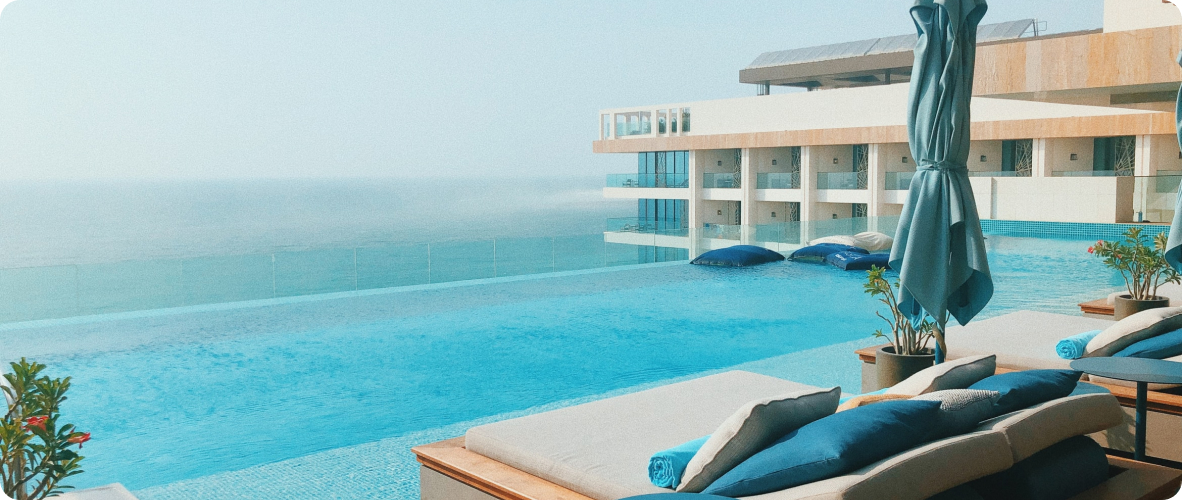
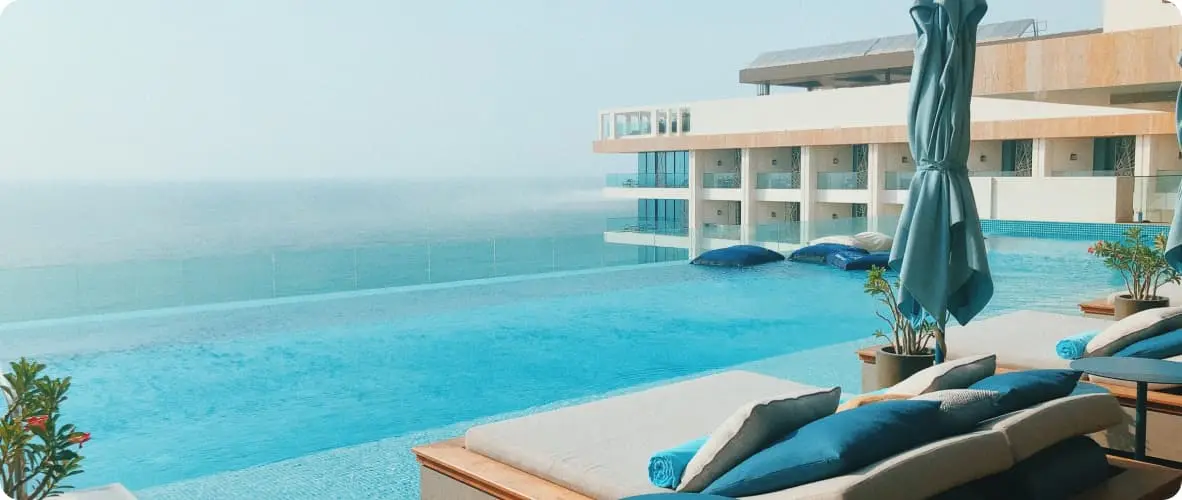
verification

diff --git a/src/Choose/Choose.tsx b/src/Choose/Choose.tsx
@@ -21,7 +21,7 @@ const Choose: React.FC = () => {
 
                 <div className={styles.divPidContainer}>
                     <div className={styles.divMiniContainer}>
-                        <img src="../image/Choose1.png" alt="delete" loading="lazy" />
+                        <img src="../image/Choose1.webp" alt="delete" loading="lazy" />
                         <h3>{t('Choose.Container_1.title_Photo_1')}</h3>
                         <p>{t('Choose.Container_1.subtitle_1_Photo_1')}<br />
                             {t('Choose.Container_1.subtitle_1_Photo_2')} <br />
@@ -29,7 +29,7 @@ const Choose: React.FC = () => {
                     </div>
 
                     <div className={styles.divMiniContainer}>
-                        <img src="../image/Choose2.png" alt="delete" loading="lazy"/>
+                        <img src="../image/Choose2.webp" alt="delete" loading="lazy"/>
                         <h3>{t('Choose.Container_2.title_Photo_2')}</h3>
                         <p>{t('Choose.Container_2.subtitle_2_Photo_1')}<br />
                             {t('Choose.Container_2.subtitle_2_Photo_2')} <br />
@@ -37,7 +37,7 @@ const Choose: React.FC = () => {
                     </div>
 
                     <div className={styles.divMiniContainer}>
-                        <img src="../image/Choose3.png" alt="delete" loading="lazy"/>
+                        <img src="../image/Choose3.webp" alt="delete" loading="lazy"/>
                         <h3>{t('Choose.Container_3.title_Photo_3')}</h3>
                         <p>{t('Choose.Container_3.subtitle_3_Photo_1')}<br />
                             {t('Choose.Container_3.subtitle_3_Photo_2')} <br />
@@ -45,7 +45,7 @@ const Choose: React.FC = () => {
                     </div>
 
                     <div className={styles.divMiniContainer}>
-                        <img src="../image/Choose4.png" alt="delete" loading="lazy"/>
+                        <img src="../image/Choose4.webp" alt="delete" loading="lazy"/>
                         <h3>{t('Choose.Container_4.title_Photo_4')}</h3>
                         <p>{t('Choose.Container_4.subtitle_4_Photo_1')}<br />
                             {t('Choose.Container_4.subtitle_4_Photo_2')} <br />

diff --git a/src/SectionHotel/SectionHotel.tsx b/src/SectionHotel/SectionHotel.tsx
@@ -19,7 +19,7 @@ const SectionHotel: React.FC = () => {
                     <div className={styles.imgBlock}>
                         <img className={styles.imgSerze} src="../image/iconSerze.png" alt="delete" loading="lazy" />
                         <img className={styles.zirca} src="../image/ivonZirca.png" alt="delete" loading="lazy" />
-                        <img className={styles.hotelImg} src="../image/hotel1.png" alt="delete" loading="lazy" />
+                        <img className={styles.hotelImg} src="../image/hotel1.webp" alt="delete" loading="lazy" />
                     </div>
 
                     <div className={styles.divtext}>
@@ -51,7 +51,7 @@ const SectionHotel: React.FC = () => {
                     <div className={styles.imgBlock}>
                         <img className={styles.imgSerze} src="../image/iconSerze.png" alt="delete" loading="lazy" />
                         <img className={styles.zirca} src="../image/ivonZirca.png" alt="delete" loading="lazy" />
-                        <img className={styles.hotelImg} src="../image/hotel2.png" alt="delete" loading="lazy" />
+                        <img className={styles.hotelImg} src="../image/hotel2.webp" alt="delete" loading="lazy" />
                     </div>
 
                     <div className={styles.divtext}>
@@ -82,7 +82,7 @@ const SectionHotel: React.FC = () => {
                     <div className={styles.imgBlock}>
                         <img className={styles.imgSerze} src="../image/iconSerze.png" alt="delete" loading="lazy" />
                         <img className={styles.zirca} src="../image/ivonZirca.png" alt="delete" loading="lazy" />
-                        <img className={styles.hotelImg} src="../image/hotel3.png" alt="delete" loading="lazy" />
+                        <img className={styles.hotelImg} src="../image/hotel3.webp" alt="delete" loading="lazy" />
                     </div>
 
                     <div className={styles.divtext}>

diff --git a/src/Recent/Recent.tsx b/src/Recent/Recent.tsx
@@ -18,7 +18,7 @@ const Recent: React.FC = () => {
             <div className="DivCintainerRecent">
 
                 <div className="DivMinContainer">
-                    <img src="../image/1.png" alt="delete" loading="lazy"/>
+                    <img src="../image/1.webp" alt="delete" loading="lazy"/>
                     <h2>
                         {t("Recent.Container_1.textData_1")}<span><MdAccessTimeFilled className="TimeField1" />{t("Recent.Container_1.textData_2")}</span>
                     </h2>
@@ -31,7 +31,7 @@ const Recent: React.FC = () => {
                 </div>
 
                 <div className="DivMinContainer">
-                    <img src="../image/2.png" alt="delete" loading="lazy" />
+                    <img src="../image/2.webp" alt="delete" loading="lazy" />
                     <h2>
                         {t("Recent.Container_2.textData_1")}<span> <MdAccessTimeFilled className="TimeField2" />{t("Recent.Container_2.textData_2")}</span>
                     </h2>
@@ -43,7 +43,7 @@ const Recent: React.FC = () => {
                 </div>
 
                 <div className="DivMinContainer">
-                    <img src="../image/3.png" alt="delete" loading="lazy" />
+                    <img src="../image/3.webp" alt="delete" loading="lazy" />
                     <h2>
                         {t("Recent.Container_3.textData_1")}<span><MdAccessTimeFilled className="TimeField3" /> {t("Recent.Container_3.textData_2")}</span>
                     </h2>

diff --git a/src/Banner/Banner.tsx b/src/Banner/Banner.tsx
@@ -20,8 +20,8 @@ const Banner = () => {
                 </div>
 
                 <div className={styles.divBanerPhoto}>
-                    <img src="../image/Banner.jpg" className={styles.banerPhoto} alt="delete"  decoding="async" loading="eager" style={{maxWidth: "1180px", width:"100%", height: "auto%" }}/>
-                    <img src="../image/Rectangle.jpg" className={styles.ImgZamina} alt="delete" decoding="async" loading="lazy"/>
+                    <img src="../image/Banner.webp" className={styles.banerPhoto} alt="delete"  decoding="async" loading="eager" style={{maxWidth: "1180px", width:"100%", height: "auto%" }}/>
+                    <img src="../image/Rectangle.webp" className={styles.ImgZamina} alt="delete" decoding="async" loading="lazy"/>
                 </div>
 
                 <div className={styles.divPitBaner}>
@@ -34,7 +34,7 @@ const Banner = () => {
                     <div className={styles.divPoloska}><span ></span></div>
 
                     <div className={styles.divWhen}>
-                        <img src="../image/calendar.png" alt="delete" loading="lazy" />
+                        <img src="../image/calendar.webp" alt="delete" loading="lazy" />
                         <p>{t('Banner.search.p_2')}<br /><span>{t('Banner.search.span_2')}</span></p>
                     </div>
 

diff --git a/src/Footer/Footer.css b/src/Footer/Footer.css
@@ -6,7 +6,8 @@
     margin: 0 auto;
     background-color: #bebdbd54;
 }
-.DivMinContaier{
+
+.DivMinContaier {
     margin-right: 20px;
 }
 
@@ -80,6 +81,7 @@
 .PoloskaBootom img {
     max-width: 1186px;
     width: 100%;
+    height: 1px;
     padding-right: 9px;
     margin: 0 auto;
 }
@@ -102,7 +104,8 @@
     font-family: sans-serif;
     color: #2A90D9;
 }
-.FooterMin p{
+
+.FooterMin p {
     font-family: sans-serif;
 }
 
@@ -122,6 +125,11 @@
     height: 30px;
     height: 100%;
 
+}
+
+.minDivFooter img {
+    width: 32px;
+    height: 32px;
 }
 
 .minDivFooter svg {
@@ -159,19 +167,19 @@
     }
 }
 
-@media(max-width: 520px){
-    .FooterMin{
+@media(max-width: 520px) {
+    .FooterMin {
         flex-wrap: wrap;
         width: 70%;
         padding-left: 20px;
     }
 
-    .FooterMin h1{
+    .FooterMin h1 {
         padding-left: 0px;
         padding-right: 10px;
     }
 
-    
+
 }
 
 @media(max-width: 390px) {
@@ -180,12 +188,12 @@
         width: 100%;
     }
 
-    .DivMinContaier h3{
+    .DivMinContaier h3 {
         font-size: 11px;
         padding-bottom: 0px;
     }
 
-    .DivMinContaier p{
+    .DivMinContaier p {
         margin: 10px 0px;
     }
 }

diff --git a/src/Recent/Recent.css b/src/Recent/Recent.css
@@ -21,6 +21,12 @@
     display: flex;
     justify-content: space-between;
 }
+.DivMinContainer img{
+    max-width: 370px;
+    width: 100%;
+    max-height: 250px;
+    height: 100%;
+}
 
 .DivMinContainer h2 {
     display: flex;
@@ -85,6 +91,8 @@
     .DivMinContainer img {
         max-width: 280px;
         width: 100%;
+        max-height: 200px;
+        height: 100%;
     }
 
     .DivMinContainer p {

diff --git a/src/SectionHotel/SectionHotel.module.css b/src/SectionHotel/SectionHotel.module.css
@@ -6,7 +6,7 @@
 }
 
 .divSpecialofers h2{
-    font-family: monospace;
+    
     padding-top: 100px;
     padding-bottom: 50px;
     font-size: 40px;
@@ -28,7 +28,7 @@
 
 .imgSerze {
     position: absolute;
-    padding-left: 318px;
+    padding-left: 310px;
     padding-top: 20px;
 }
 
@@ -39,6 +39,8 @@
 }
 
 .hotelImg {
+    width: 95%;
+    height: 100%;
     padding: 10px 10px 0px 10px
 }
 

diff --git a/src/Choose/Choose.module.css b/src/Choose/Choose.module.css
@@ -41,6 +41,10 @@
 }
 
 .divMiniContainer img {
+    max-width: 100px;
+    width: 100%;
+    max-height: 100px;
+    height: 100%;
     padding: 0px 65px;
 }
 
@@ -68,8 +72,9 @@
         height: 100%;
     }
 }
-@media(max-width: 580px){
-    .divPidContainer{
+
+@media(max-width: 580px) {
+    .divPidContainer {
         justify-content: center;
     }
 }

diff --git a/src/Header/heder.module.css b/src/Header/heder.module.css
@@ -17,8 +17,10 @@
 }
 
 .userPhoto {
-    width: 40px;
-    height: 40px;
+    max-width: 32px;
+    width: 100%;
+    max-height: 32px;
+    height: 100%;
     border-radius: 20px;
 }
 
@@ -140,6 +142,7 @@
     display: flex;
     align-items: center;
     flex-direction: column;
+    margin-top: 8px;
 }
 
 @media (max-width: 930px) {

diff --git a/src/App.js b/src/App.js
@@ -17,7 +17,7 @@ const Banner = lazy(() => import('./Banner/Banner'));
 
 function App() {
   return (
-    <BrowserRouter basename="/findHotelWeb">
+    <BrowserRouter >
       <Provider store={store} >
         <CookiesProvider>
           <Suspense>
